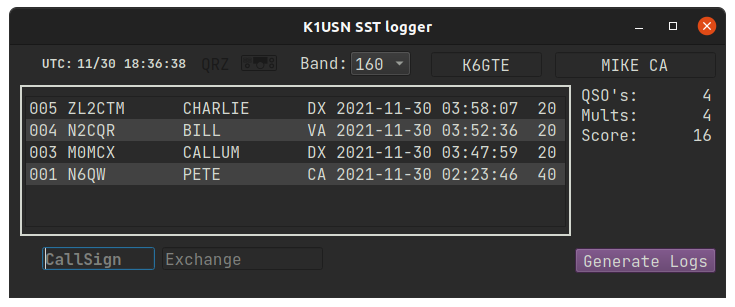
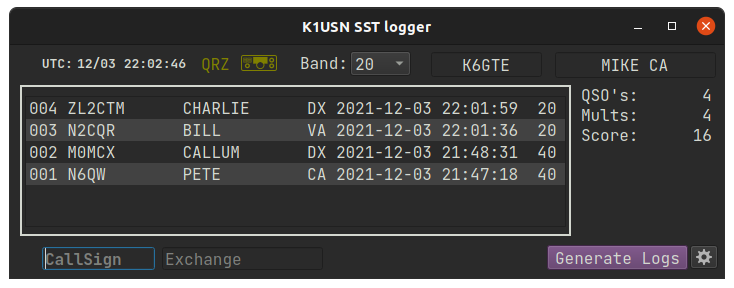
Updated docs.

diff --git a/README.md b/README.md
@@ -34,3 +34,25 @@ Then build the binary.
 `pyinstaller -F k1usnsst.spec`
 
 Look in the newly created dist directory to find your binary.
+
+## QRZ / HamDB / CAT
+
+If you wish to used QRZ to look up the full name and gridsquare for inclusion in your adif log, Click the gear icon in the lower right corner and enter your username and password for QRZ. Then place a check in the 'use QRZ' box.
+If you don't subscribe to the QRZ service, you can place a check in the 'use HamDB' box.
+
+The program can monitor your radio for band changes if you configure `rigctld`. Just place a check in the 'Use RigControl' box.
+
+If you don't have rigctld and your a Debian/Ubuntu based Linux user you can install it with:
+
+`sudo apt install libhamlib-utils`
+
+rigctld supplied with version 4 of hamlib segfaults/crashes periodically. I don't know why. I may switch shortly in the future to flrig xmlrpc. But in the mean time I wrote a bash script to relaunch it whenever it dies.
+
+```
+#!/bin/bash
+
+while true
+do
+rigctld -m 114 -r /dev/ttyUSB1
+done
+```
